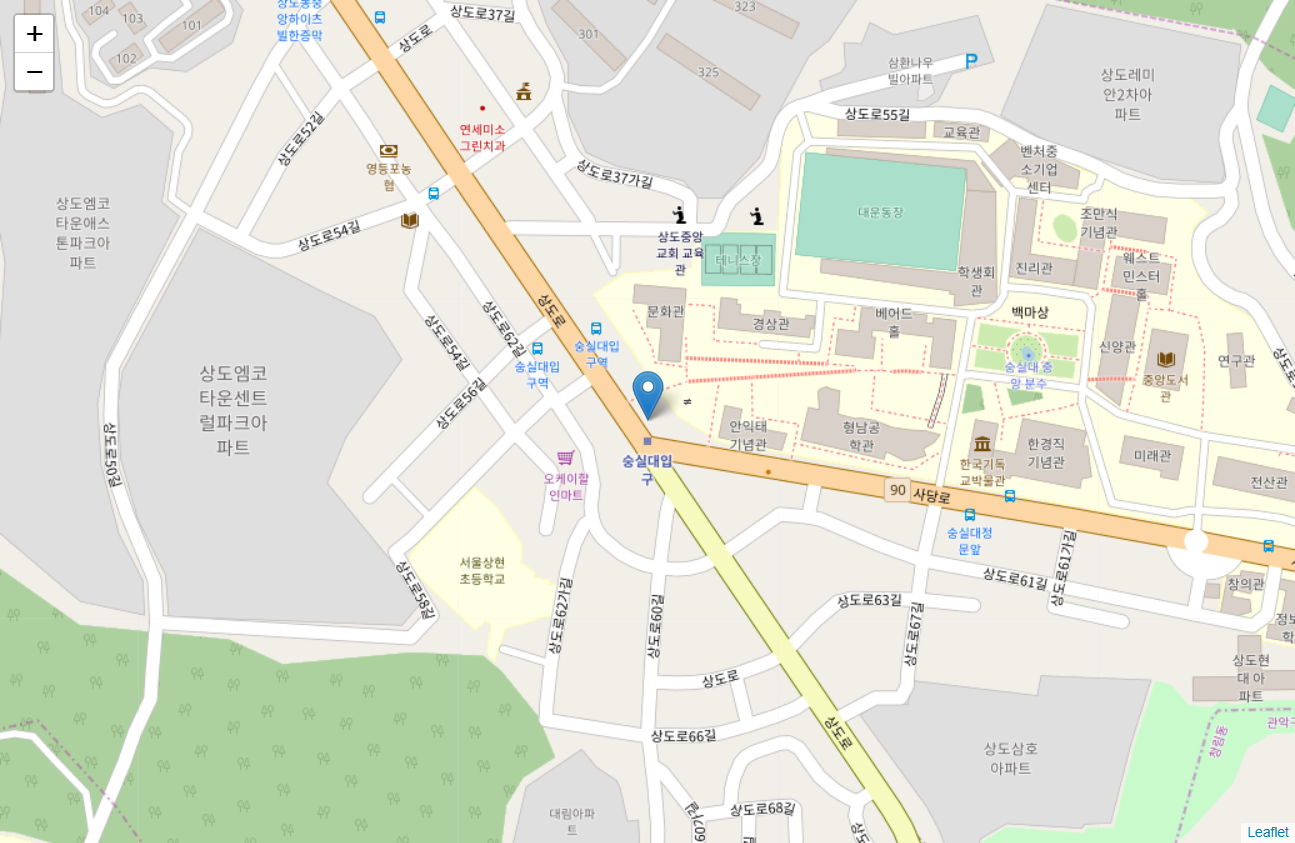
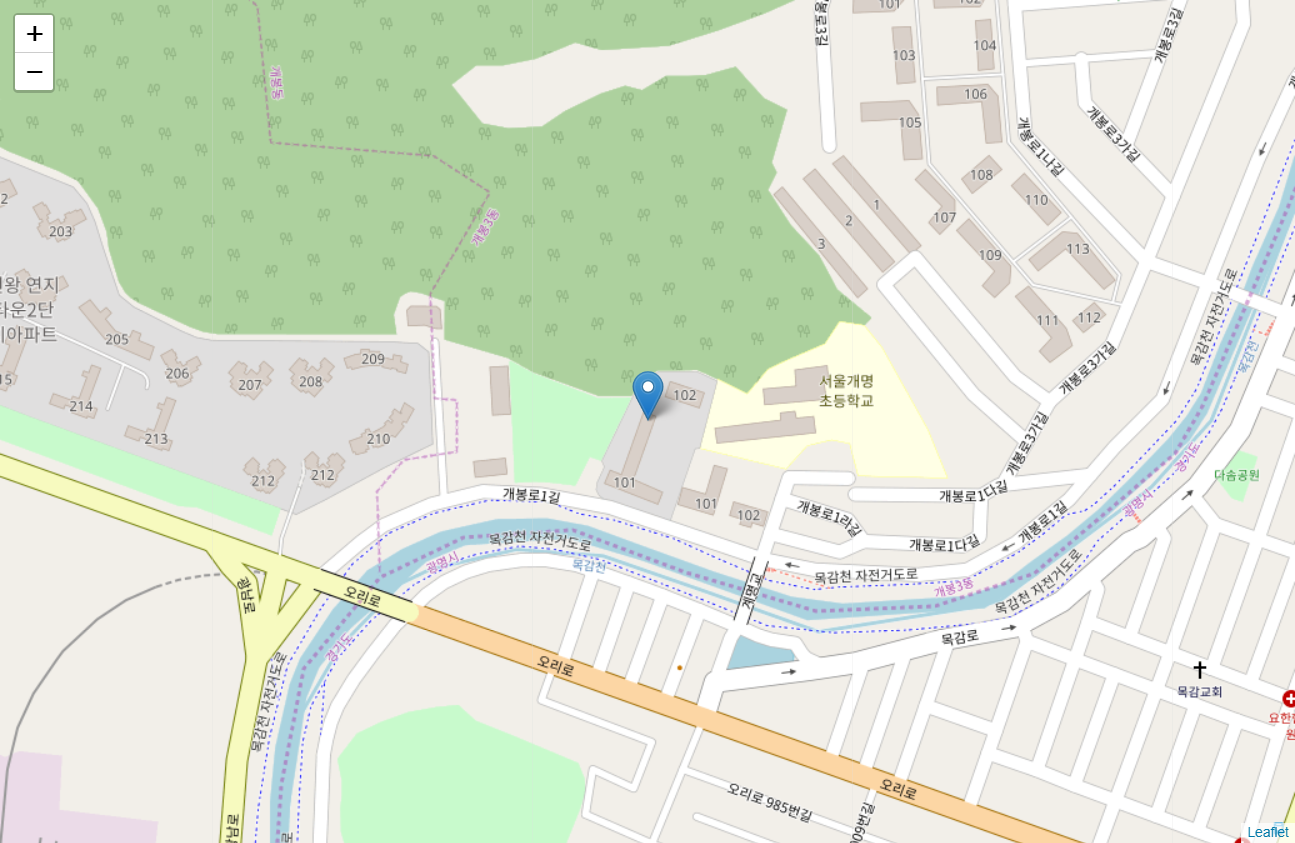
선택버튼

diff --git a/ShildMap.html b/ShildMap.html
@@ -17,7 +17,7 @@
     
     <meta name="viewport" content="width=device-width,
         initial-scale=1.0, maximum-scale=1.0, user-scalable=no" />
-    <style>#map_f77dce1d447a49d587f9f6fae3828811 {
+    <style>#map_42722a09fccd450fa9dc85a7edd13d75 {
         position: relative;
         width: 100.0%;
         height: 100.0%;
@@ -28,7 +28,7 @@
 </head>
 <body>    
     
-    <div class="folium-map" id="map_f77dce1d447a49d587f9f6fae3828811" ></div>
+    <div class="folium-map" id="map_42722a09fccd450fa9dc85a7edd13d75" ></div>
 </body>
 <script>    
     
@@ -36,9 +36,9 @@
         var bounds = null;
     
 
-    var map_f77dce1d447a49d587f9f6fae3828811 = L.map(
-        'map_f77dce1d447a49d587f9f6fae3828811', {
-        center: [37.495819, 126.954133],
+    var map_42722a09fccd450fa9dc85a7edd13d75 = L.map(
+        'map_42722a09fccd450fa9dc85a7edd13d75', {
+        center: [37.482817, 126.849128],
         zoom: 17,
         maxBounds: bounds,
         layers: [],
@@ -49,7 +49,7 @@
 
 
     
-    var tile_layer_3f40dda217514b4d9ccbf8b55ea8da35 = L.tileLayer(
+    var tile_layer_cb8327ef6b2f43d69079d0ce76931cef = L.tileLayer(
         'https://{s}.tile.openstreetmap.org/{z}/{x}/{y}.png',
         {
         "attribution": null,
@@ -61,26 +61,26 @@
         "opacity": 1,
         "subdomains": "abc",
         "tms": false
-}).addTo(map_f77dce1d447a49d587f9f6fae3828811);
+}).addTo(map_42722a09fccd450fa9dc85a7edd13d75);
     
-        var marker_89da397cc5ea4c43b5e281b463b2ecbf = L.marker(
-            [37.495819, 126.954133],
+        var marker_16af5a49700d4568a71169ccc59ce151 = L.marker(
+            [37.482817, 126.849128],
             {
                 icon: new L.Icon.Default(),
                 }
-            ).addTo(map_f77dce1d447a49d587f9f6fae3828811);
+            ).addTo(map_42722a09fccd450fa9dc85a7edd13d75);
         
     
-            var popup_4c0b979fea564730ada8a4712c7a81e5 = L.popup({maxWidth: '100%'
+            var popup_41dee94001fb4d01ae0359154c2cf40c = L.popup({maxWidth: '100%'
             
             });
 
             
-                var html_b98786d01c4a4be28a60908a1b15c9d7 = $(`<div id="html_b98786d01c4a4be28a60908a1b15c9d7" style="width: 100.0%; height: 100.0%;">Shild</div>`)[0];
-                popup_4c0b979fea564730ada8a4712c7a81e5.setContent(html_b98786d01c4a4be28a60908a1b15c9d7);
+                var html_953b04fcc63243b89935699fb83b8485 = $(`<div id="html_953b04fcc63243b89935699fb83b8485" style="width: 100.0%; height: 100.0%;">Shild</div>`)[0];
+                popup_41dee94001fb4d01ae0359154c2cf40c.setContent(html_953b04fcc63243b89935699fb83b8485);
             
 
-            marker_89da397cc5ea4c43b5e281b463b2ecbf.bindPopup(popup_4c0b979fea564730ada8a4712c7a81e5)
+            marker_16af5a49700d4568a71169ccc59ce151.bindPopup(popup_41dee94001fb4d01ae0359154c2cf40c)
             ;
 
             

diff --git a/searchState.py b/searchState.py
@@ -186,6 +186,7 @@ class SearchState:
         self.start=True
         Button(window,command=self.searchA,text="  지역검색  ",bg="red",font = ('현대하모니 L', 10, 'bold')).place(x=470,y=25)
         Button(window, command=self.searchD, text="  직접검색  ",bg='yellow',font = ('현대하모니 L', 10, 'bold')).place(x=470, y=65)
+
         self.canvas=Canvas(window,width=500,height=190,bg='white') #막대 그래프 그릴 프레입
         self.canvas.place(x=50,y=100)
 
@@ -210,8 +211,8 @@ class SearchState:
         self.listbox.pack(side='left')
         self.scrollbar["command"]=self.listbox.yview
         #--------------------------------------------------------
-        Button(window, command=self.selectValue, width=14, height=1, text="선택", bg='gray',   #결과 값 선택 버튼
-               font=('현대하모니 L', 12, 'bold')).place(x=400, y=550)  # 즐겨찾기 버튼
+        Select=PhotoImage(file='select_icon.png')
+        Button(window, command=self.selectValue, width=80, height=40,image=Select).place(x=400, y=550)  # 선택 버튼
         Button(window, command=self.addList, width=14, height=1, text="즐겨찾기 추가", bg='gray', #즐겨찾기 버튼
                font=('현대하모니 L', 12, 'bold')).place(x=400, y=595)  # 즐겨찾기 버튼
         mainloop()

diff --git a/bookMarkState.py b/bookMarkState.py
@@ -89,8 +89,8 @@ class BookMarkState:
             self.listbox.insert(i,item.addr)
             i+=1
         #--------------------------------------------------------
-        Button(self.window, command=self.selectValue, width=14, height=1, text="선택", bg='gray',   #결과 값 선택 버튼
-               font=('현대하모니 L', 12, 'bold')).place(x=400, y=15)  # 즐겨찾기 버튼
+        Select = PhotoImage(file='select_icon.png')
+        Button(self.window, command=self.selectValue, width=80, height=40,image=Select).place(x=400, y=15)  # 결과 선택 버튼
         Button(self.window, command=self.deleteList, width=14, height=1, text="즐겨찾기 삭제", bg='gray', #즐겨찾기 버튼
                font=('현대하모니 L', 12, 'bold')).place(x=400, y=60)  # 즐겨찾기 버튼
         mainloop()
